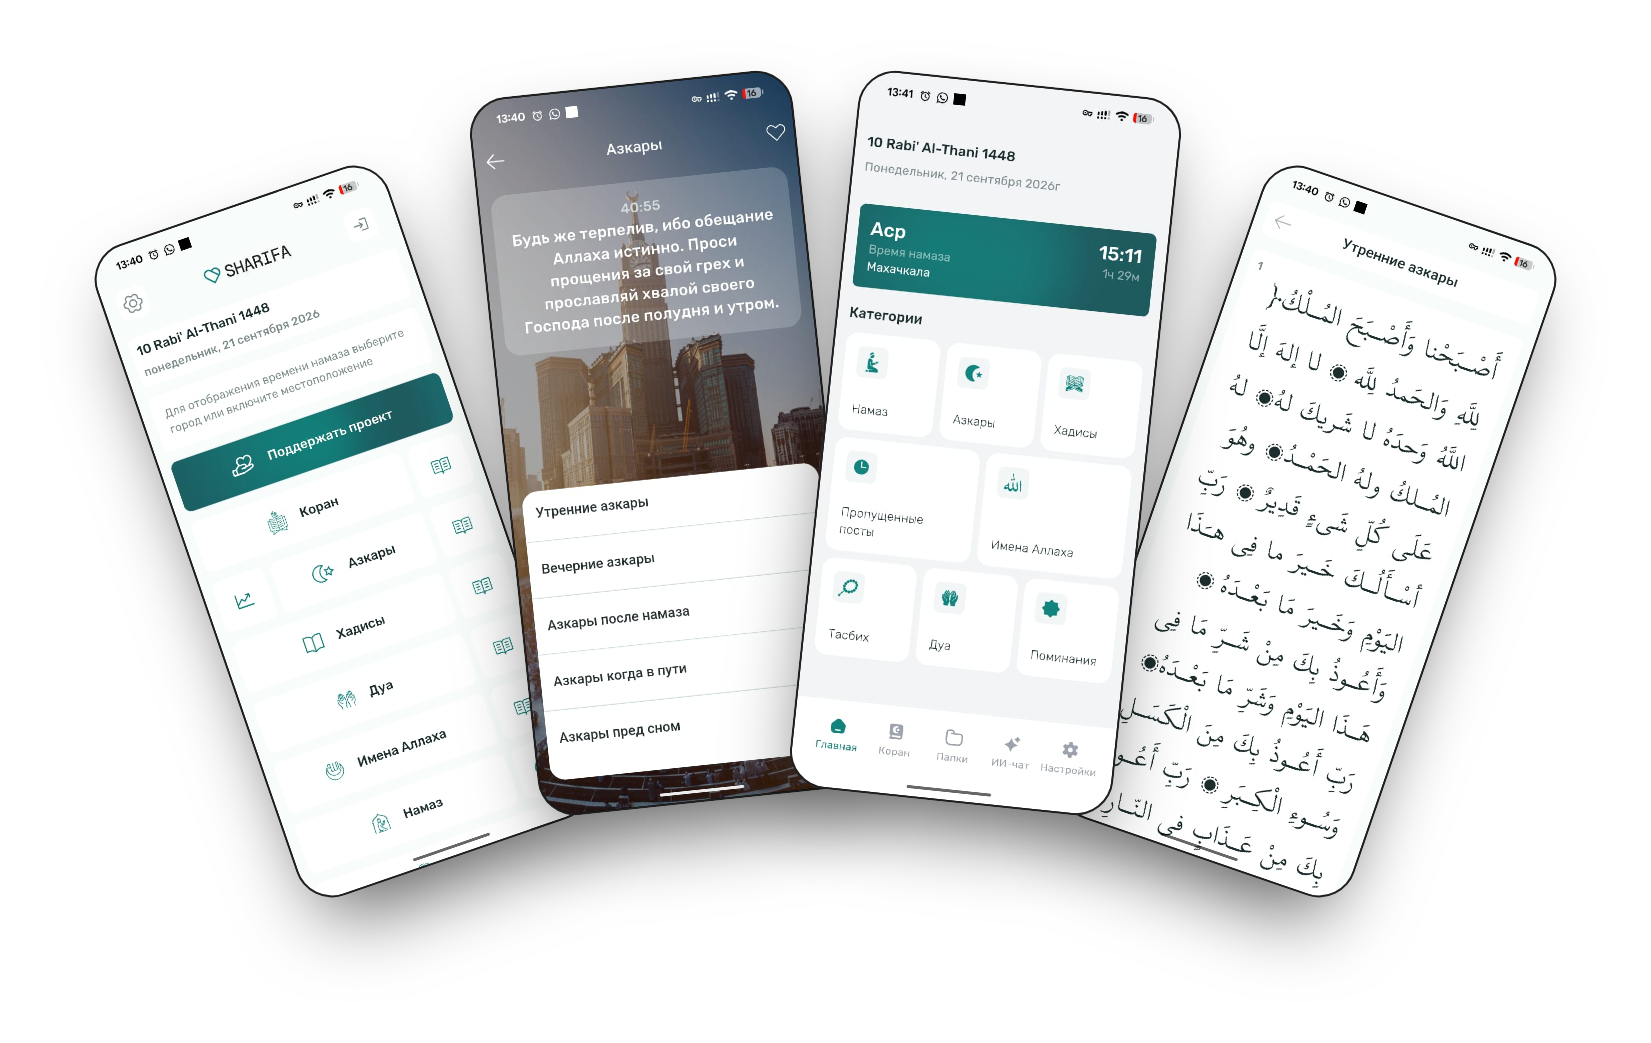
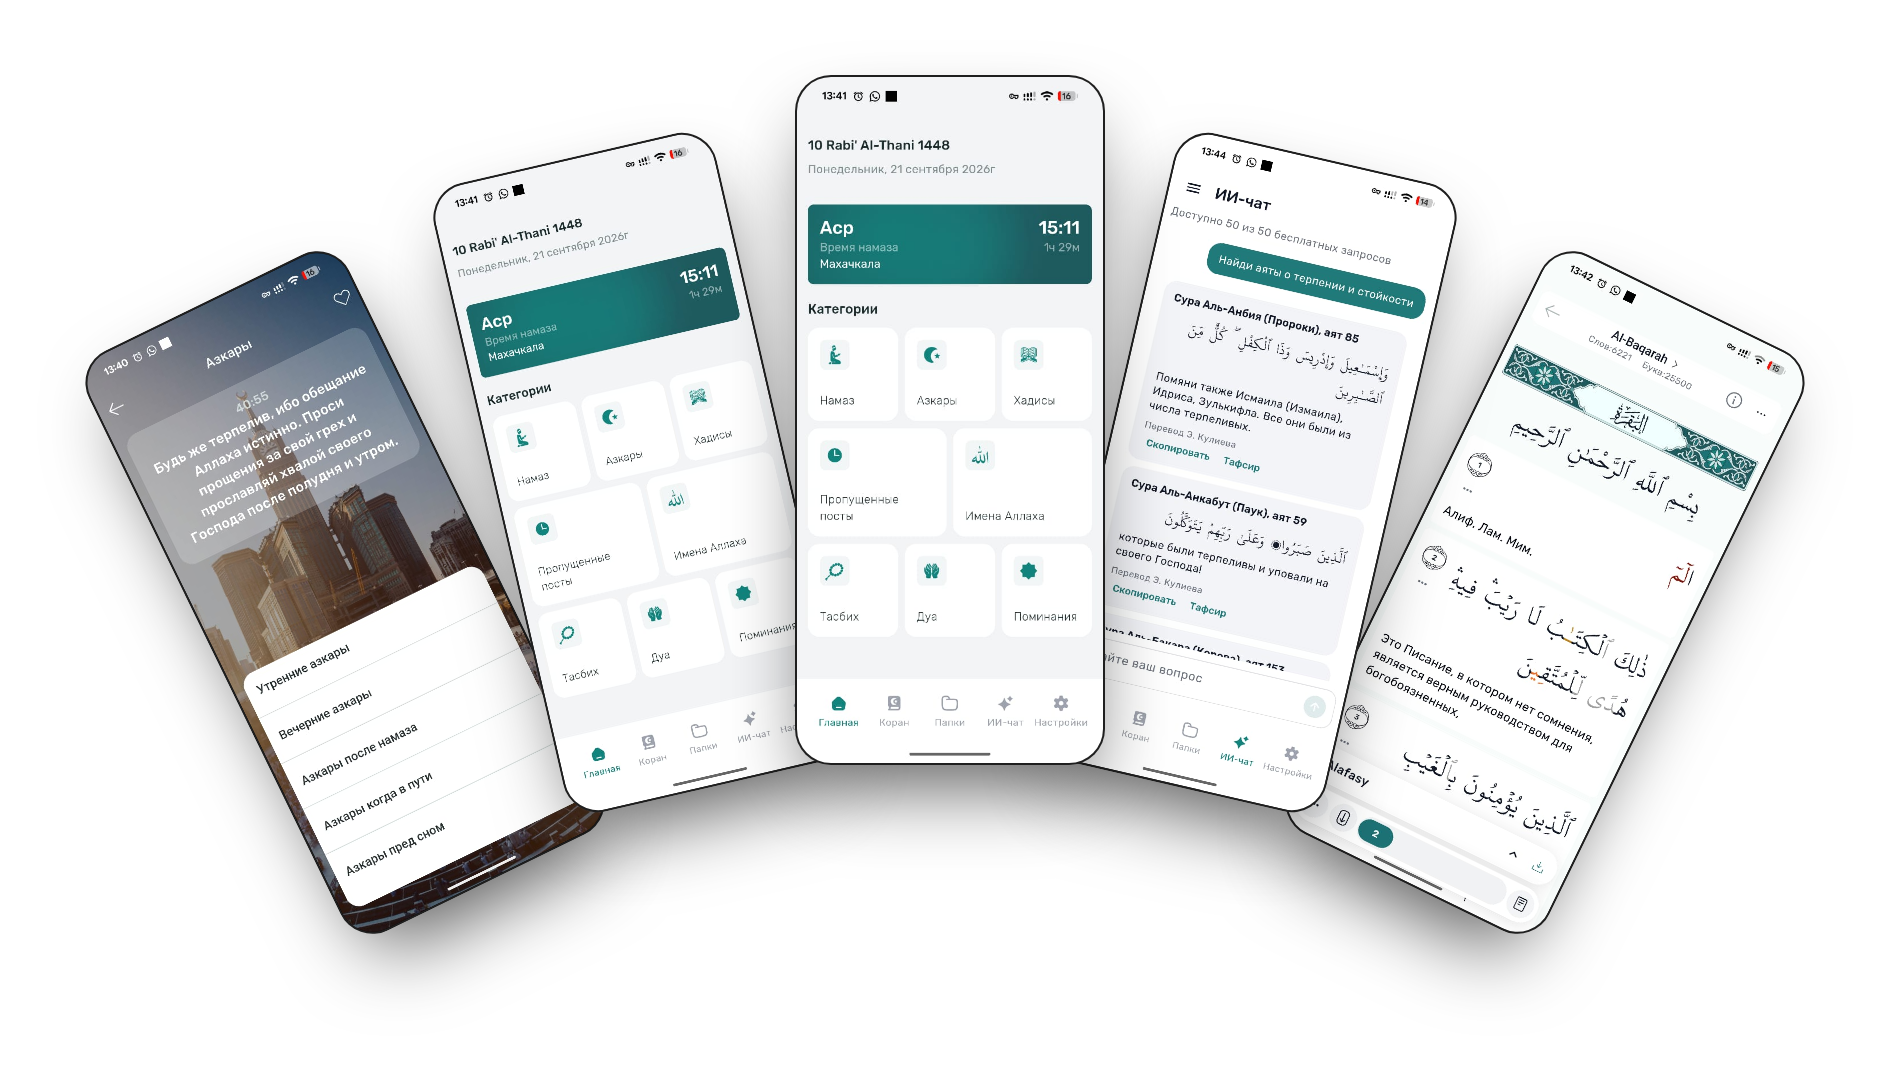
Refresh Sharifa fan hero with second photo batch; center contact form
Fan now uses the stronger screens from the later upload (prayer
times home, ИИ-чат, Quran reading) alongside the first batch
instead of only the original 5. Contact section heading and form
are centered on the page instead of pinned to the left edge.

Claude-Session: https://claude.ai/code/session_01GmQjXozrS9AhgV5bVi5eFh

diff --git a/components/ContactSection.tsx b/components/ContactSection.tsx
@@ -6,7 +6,7 @@ export function ContactSection() {
       id="contacts"
       className="scroll-mt-24 border-t border-border py-24"
     >
-      <div className="mb-10 max-w-xl">
+      <div className="mx-auto mb-10 max-w-xl text-center">
         <h2 className="text-2xl font-semibold tracking-tight sm:text-3xl">
           Обсудим проект
         </h2>
@@ -16,7 +16,7 @@ export function ContactSection() {
         </p>
       </div>
 
-      <div className="max-w-xl">
+      <div className="mx-auto max-w-xl">
         <ContactForm />
       </div>
     </section>
